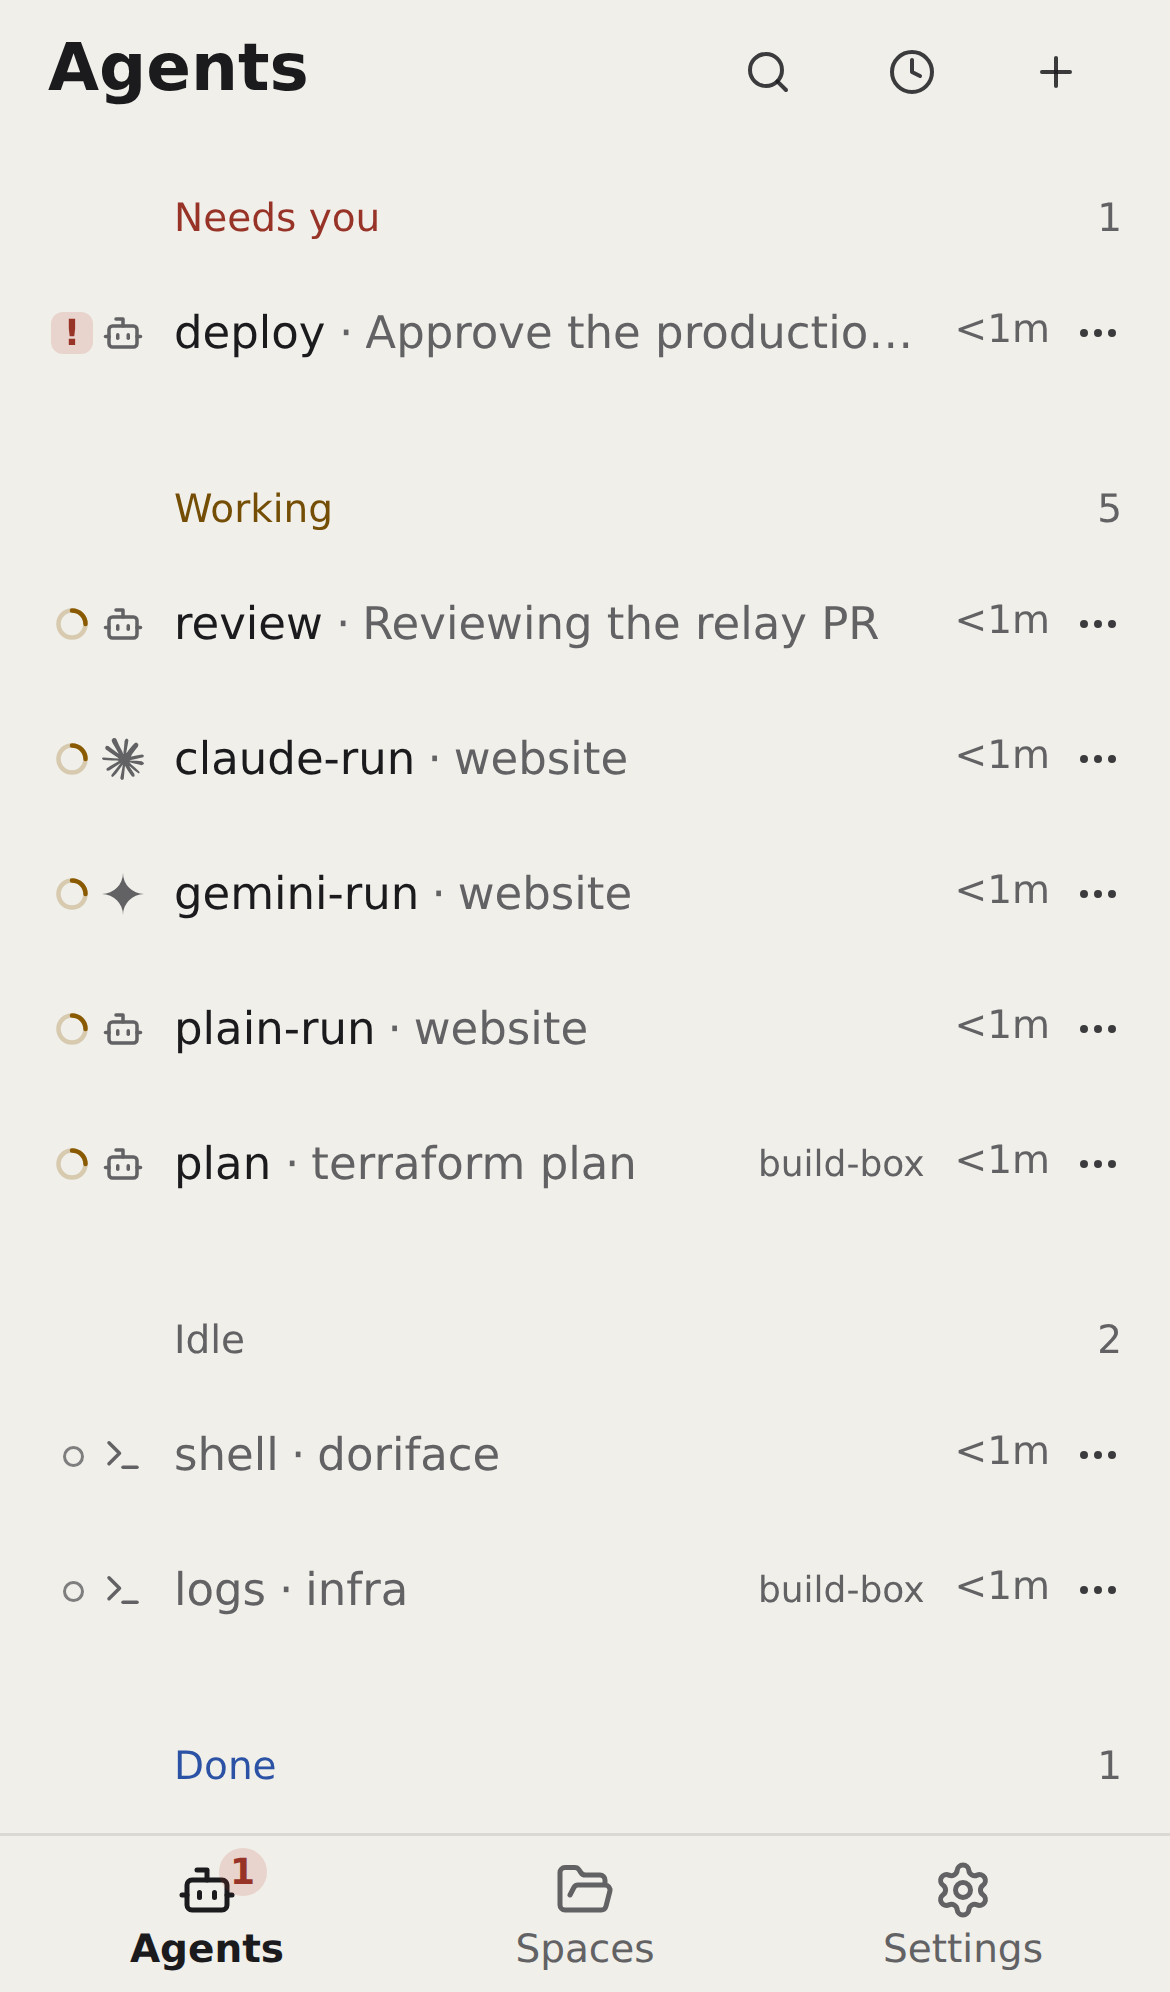
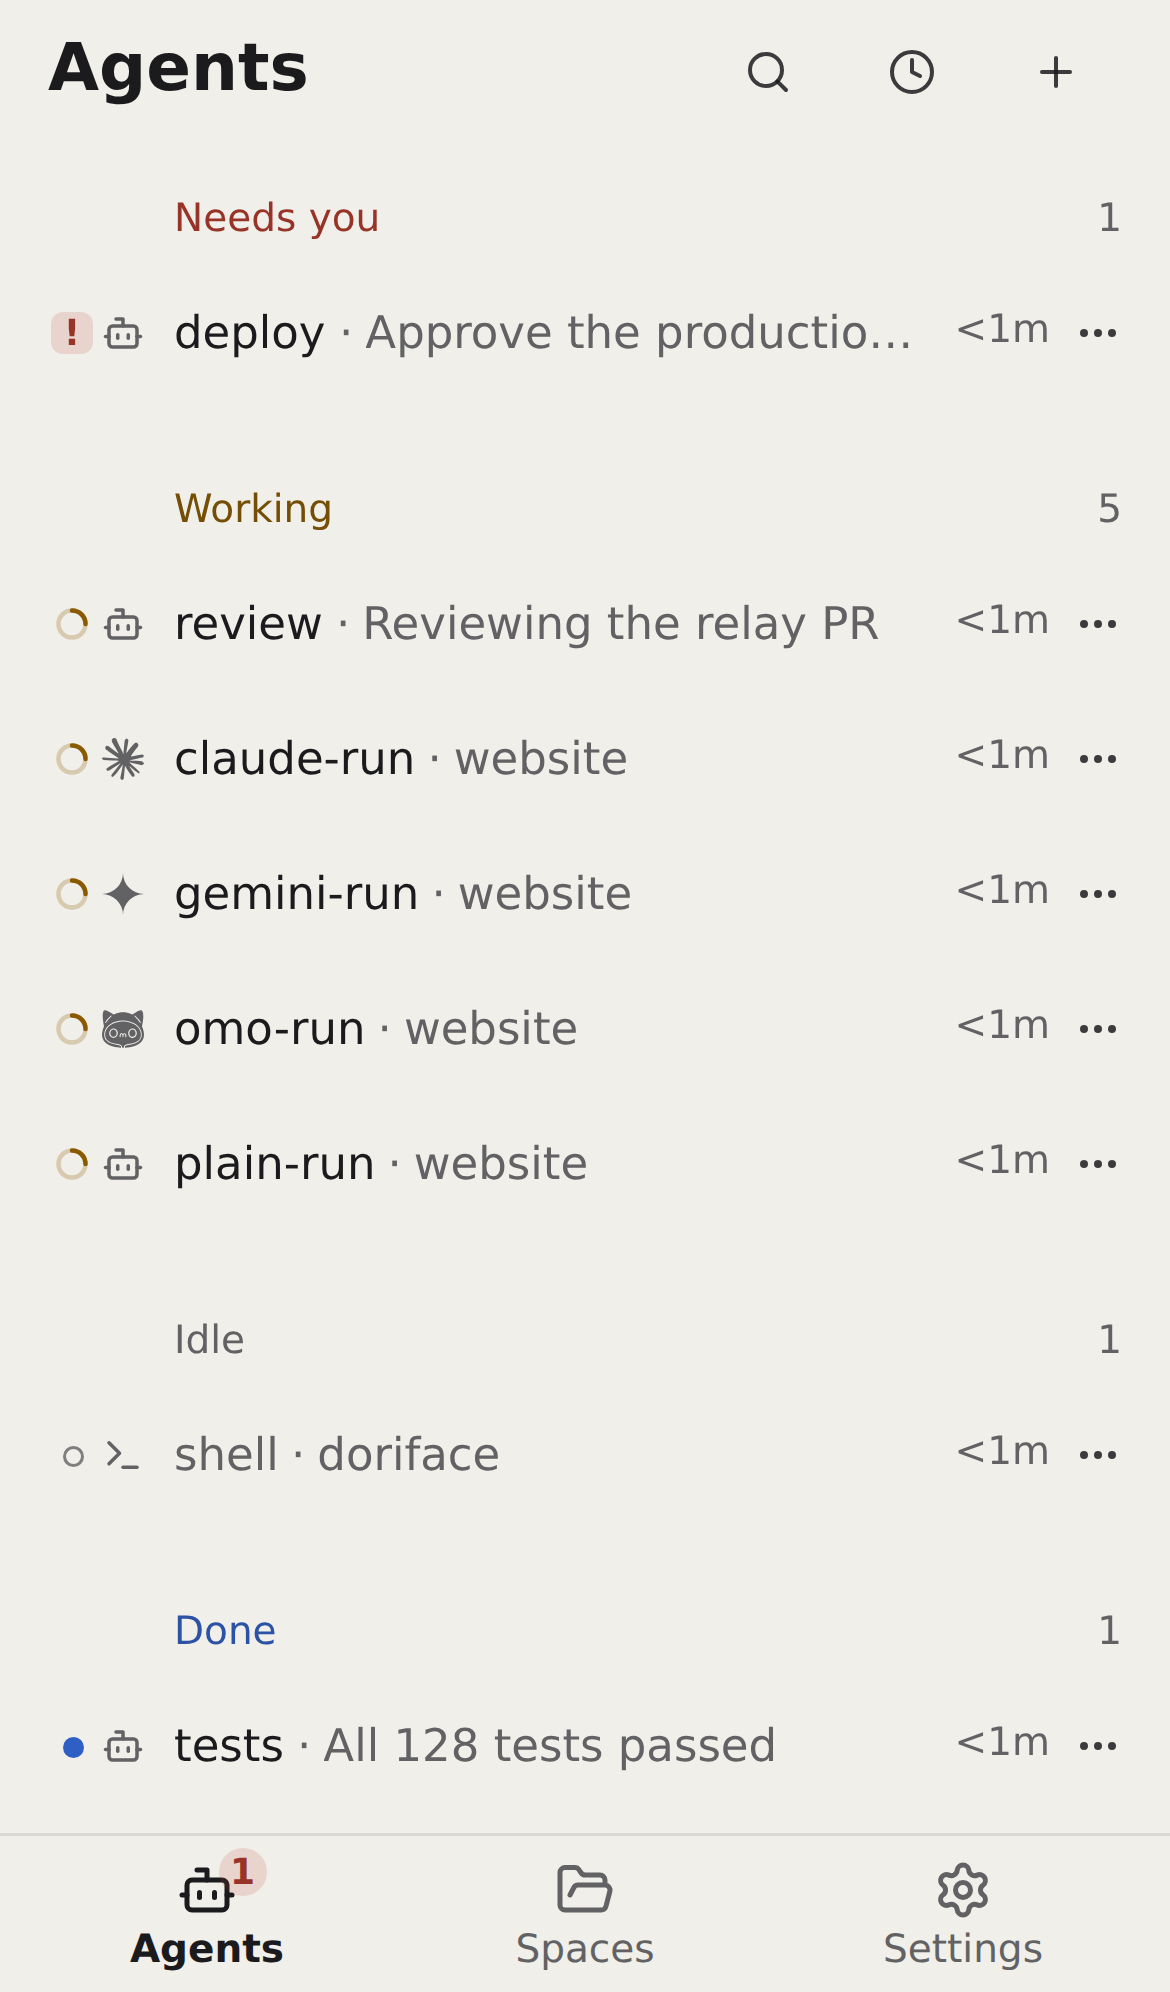
feat(ui): omo agents show omo's own cat mark (Part of #2746) (#2814)
* feat(ui): omo agents show omo's own cat mark instead of a stand-in (Part of #2746)

* docs(changes): fragment for #2814

diff --git a/packages/ui/src/components/agent-marks.ts b/packages/ui/src/components/agent-marks.ts
@@ -1,25 +1,20 @@
-import {
-  Bot,
-  CodeXml,
-  Cpu,
-  Feather,
-  Mountain,
-  Orbit,
-  Pi,
-  SquareTerminal,
-  Terminal,
-  Zap,
-  type LucideIcon,
-} from "lucide-react";
+import { Bot, CodeXml, Cpu, Feather, Orbit, Pi, SquareTerminal, Terminal, Zap, type LucideIcon } from "lucide-react";
 
-/** One single-colour mark for what a terminal runs, from Simple Icons (CC0-1.0) or Lucide (ISC). */
+/** One single-colour mark for what a terminal runs, from Simple Icons (CC0-1.0), Lucide (ISC), or our own mark. */
 export type AgentMarkEntry =
   | { readonly label: string; readonly from: "simple-icons"; readonly slug: string; readonly path: string }
-  | { readonly label: string; readonly from: "lucide"; readonly name: string; readonly icon: LucideIcon };
+  | { readonly label: string; readonly from: "lucide"; readonly name: string; readonly icon: LucideIcon }
+  | {
+      readonly label: string;
+      readonly from: "own";
+      readonly viewBox: string;
+      readonly transform: string;
+      readonly path: string;
+    };
 
 /**
- * The 17 single-colour marks: seven Simple Icons 16.38.1 paths verbatim (viewBox 0 0 24 24), seven neutral Lucide
- * stand-ins for agents without a permissive mark, and the three generic glyphs (agent, shell, program).
+ * The 17 single-colour marks: seven Simple Icons 16.38.1 paths verbatim (viewBox 0 0 24 24), six neutral Lucide
+ * stand-ins for agents without a permissive mark, omo's own mark, and the three generic glyphs (agent, shell, program).
  * See `packages/ui/NOTICES.md` for sources and licences.
  */
 export const AGENT_MARKS: Readonly<Record<string, AgentMarkEntry>> = {
@@ -63,7 +58,13 @@ export const AGENT_MARKS: Readonly<Record<string, AgentMarkEntry>> = {
     path: "M21.765.351C22.998.351 24 1.353 24 2.586S22.998 4.82 21.765 4.82h-1.974c-.15 0-.26-.12-.26-.26V2.586A2.237 2.237 0 0 1 21.765.35M9.41 13.388l8.447-8.377c.16-.16.07-.471-.14-.471h-4.55s-.1.02-.14.06l-9.099 9.029c-.14.14-.35.02-.35-.21V4.81c0-.15-.1-.27-.221-.27H.22c-.12 0-.22.12-.22.27v18.57c0 .15.1.27.22.27h3.137c.12 0 .22-.12.22-.27v-3.79c0-.08.03-.16.08-.21l2.826-2.796c.07-.07.16-.08.241-.03l7.546 5.551a8.9 8.9 0 0 0 4.018 1.493c.12.01.23-.11.23-.27V19.76c0-.14-.08-.25-.19-.26a5.8 5.8 0 0 1-2.355-.942l-6.533-4.73c-.14-.09-.15-.32-.03-.441",
   },
   antigravity: { label: "Antigravity", from: "lucide", name: "feather", icon: Feather },
-  omo: { label: "omo", from: "lucide", name: "mountain", icon: Mountain },
+  omo: {
+    label: "omo",
+    from: "own",
+    viewBox: "189.5 185 645 645",
+    transform: "scale(0.5) translate(0 2048) scale(0.05 -0.05)",
+    path: "M9270 32167 c-309 -64 -456 -152 -621 -373 -562 -748 -776 -2689\n-547 -4984 118 -1187 325 -2600 570 -3890 143 -753 152 -653 -128 -1380 -403\n-1045 -643 -1873 -812 -2800 -853 -4689 1979 -7986 7858 -9148 1140 -225 2514\n-397 3202 -400 l361 -2 79 55 c264 182 210 642 -111 942 -387 362 -950 532\n-2801 845 -3004 507 -4249 965 -5520 2030 -1358 1138 -2012 2878 -1809 4810\n545 5195 6617 8726 13529 7866 5506 -684 9480 -4255 9480 -8518 0 -2607 -1462\n-4522 -4157 -5448 -927 -318 -1534 -459 -3203 -740 -1851 -313 -2414 -483\n-2801 -845 -321 -300 -375 -760 -111 -942 l79 -55 361 2 c688 3 2062 175 3202\n400 5879 1162 8711 4459 7858 9148 -169 927 -409 1755 -812 2800 -280 727\n-271 627 -128 1380 245 1290 452 2703 570 3890 271 2720 -77 4861 -855 5259\n-758 388 -2310 -238 -5021 -2024 -868 -571 -764 -557 -1489 -211 -3271 1558\n-6755 1558 -10026 0 -725 -346 -621 -360 -1489 211 -2371 1562 -3959 2278\n-4708 2122z m4132 -3345 c175 -175 124 -268 -409 -739 -1028 -910 -1995 -2053\n-2713 -3209 -97 -156 -200 -318 -228 -359 -221 -321 -646 -76 -469 270 153\n301 883 1334 1388 1965 578 723 1466 1614 2029 2035 191 142 288 151 402 37z\nm14507 -1 c496 -341 1482 -1323 2080 -2071 505 -631 1235 -1664 1388 -1965\n177 -346 -248 -591 -469 -270 -28 41 -131 203 -228 359 -718 1156 -1685 2299\n-2713 3209 -535 473 -585 564 -407 742 100 100 199 99 349 -4z M19910 25308 c-4039 -205 -7212 -1666 -9086 -4184 -1840 -2473 -1753\n-5794 196 -7540 1161 -1040 2447 -1518 5420 -2015 1374 -229 1998 -380 2456\n-591 754 -348 1163 -1000 1033 -1650 -10 -49 -1 -72 47 -124 l60 -64 444 0\n444 0 60 64 c48 52 57 75 47 124 -130 650 279 1302 1033 1650 458 211 1082\n362 2456 591 2973 497 4259 975 5420 2015 2084 1866 2026 5374 -131 7956\n-2063 2469 -5995 3966 -9899 3768z m-4644 -4374 c1356 -360 2272 -1909 1998\n-3378 -426 -2278 -2856 -3144 -4424 -1576 -1497 1496 -924 4218 1031 4899 393\n137 996 161 1395 55z m11480 35 c1491 -261 2504 -1921 2154 -3532 -487 -2247\n-3108 -3024 -4525 -1341 -1719 2042 -129 5310 2371 4873z m-6948 -2980 c172\n-40 341 -133 495 -273 95 -86 143 -116 187 -116 44 0 92 30 187 116 718 650\n1716 188 1854 -860 35 -267 18 -968 -25 -1048 -119 -219 -350 -251 -491 -68\n-68 89 -73 124 -85 670 -13 623 -25 675 -200 838 -212 198 -516 199 -735 2\n-180 -161 -192 -212 -205 -840 -12 -546 -17 -581 -85 -670 -122 -159 -308\n-159 -430 0 -68 89 -73 124 -85 670 -13 628 -25 679 -205 840 -219 197 -523\n196 -735 -2 -175 -163 -187 -215 -200 -838 -12 -546 -17 -581 -85 -670 -141\n-183 -372 -151 -491 68 -74 136 -54 1039 30 1332 170 594 758 978 1304 849z M14340 20290 c-1858 -372 -2230 -3228 -546 -4191 1280 -732 2786 338\n2786 1981 0 1391 -1068 2445 -2240 2210z M25990 20291 c-1733 -343 -2208 -2981 -732 -4069 1287 -949 2981 108\n2982 1860 0 1392 -1070 2443 -2250 2209z",
+  },
   omp: { label: "omp", from: "lucide", name: "pi", icon: Pi },
   droid: { label: "Droid", from: "lucide", name: "cpu", icon: Cpu },
   qwen: {

diff --git a/packages/ui/src/components/agent-mark.tsx b/packages/ui/src/components/agent-mark.tsx
@@ -17,21 +17,42 @@ export function AgentMark({ kind, size = 16, className, decorative = false }: Ag
   if (entry === undefined) return null;
   const classes = cn("shrink-0", className);
   const named = decorative ? ({ "aria-hidden": true } as const) : ({ role: "img", "aria-label": entry.label } as const);
-  if (entry.from === "simple-icons") {
-    return (
-      <svg
-        {...named}
-        viewBox="0 0 24 24"
-        width={size}
-        height={size}
-        fill="currentColor"
-        data-agent-mark={kind}
-        className={classes}
-      >
-        <path d={entry.path} />
-      </svg>
-    );
+  switch (entry.from) {
+    case "simple-icons":
+      return (
+        <svg
+          {...named}
+          viewBox="0 0 24 24"
+          width={size}
+          height={size}
+          fill="currentColor"
+          data-agent-mark={kind}
+          className={classes}
+        >
+          <path d={entry.path} />
+        </svg>
+      );
+    case "own":
+      return (
+        <svg
+          {...named}
+          viewBox={entry.viewBox}
+          width={size}
+          height={size}
+          fill="currentColor"
+          data-agent-mark={kind}
+          className={classes}
+        >
+          <path d={entry.path} fillRule="evenodd" transform={entry.transform} />
+        </svg>
+      );
+    case "lucide": {
+      const Icon = entry.icon;
+      return <Icon {...named} data-agent-mark={kind} width={size} height={size} className={classes} />;
+    }
+    default: {
+      const exhaustive: never = entry;
+      return exhaustive;
+    }
   }
-  const Icon = entry.icon;
-  return <Icon {...named} data-agent-mark={kind} width={size} height={size} className={classes} />;
 }

diff --git a/apps/web/e2e/capture-shots.ts b/apps/web/e2e/capture-shots.ts
@@ -407,19 +407,22 @@ export const SHOTS: readonly Shot[] = [
     },
   },
   {
-    // Per-agent marks in the sidebar and phone Agents list: Claude, Gemini and a plain agent (#2746).
+    // Per-agent marks in the sidebar and phone Agents list: Claude, Gemini, omo and a plain agent (#2746).
     name: "agent-icons",
     start: "connected",
     run: async (page) => {
       const claude = startAppAgent("claude-run", "working", "claude");
       const gemini = startAppAgent("gemini-run", "working", "gemini");
+      const omo = startAppAgent("omo-run", "working", "omo");
       const plain = startAgent("host", "plain-run", "working", "website");
-      iconShot = [claude, gemini, plain];
+      iconShot = [claude, gemini, omo, plain];
       await page.goto("/");
       const working = page.getByRole("region", { name: "Working", exact: true });
       await expect(working.locator('[data-floor="name"][title="claude-run"]')).toBeVisible({ timeout: 20_000 });
       await expect(working.locator('[data-floor="name"][title="gemini-run"]')).toBeVisible({ timeout: 20_000 });
+      await expect(working.locator('[data-floor="name"][title="omo-run"]')).toBeVisible({ timeout: 20_000 });
       await expect(working.locator('[data-floor="name"][title="plain-run"]')).toBeVisible({ timeout: 20_000 });
+      await expect(working.getByRole("img", { name: "omo" })).toBeVisible();
       await expect(working.getByRole("img", { name: "Claude" })).toBeVisible();
       await expect(working.getByRole("img", { name: "Gemini" })).toBeVisible();
       await expect(working.getByRole("img", { name: "Agent" }).first()).toBeVisible();

diff --git a/packages/ui/src/components/agent-marks.test.tsx b/packages/ui/src/components/agent-marks.test.tsx
@@ -60,6 +60,17 @@ describe("AGENT_MARKS", () => {
     expect(renderToStaticMarkup(<AgentMark kind="toString" />)).toBe("");
   });
 
+  test("omo draws its own cat mark: the glyph path alone, framed tight, single colour, holes kept by evenodd", () => {
+    const entry = AGENT_MARKS["omo"];
+    expect(entry?.from).toBe("own");
+    const markup = renderToStaticMarkup(<AgentMark kind="omo" />);
+    expect(readAttr(markup, "viewBox")).toBe("189.5 185 645 645");
+    expect(readAttr(markup, "fill")).toBe("currentColor");
+    expect(readAttr(markup, "fill-rule")).toBe("evenodd");
+    expect(readAttr(markup, "d")).toMatch(/^M9270 32167 c-309 -64/u);
+    expect(markup).not.toMatch(/#[0-9a-fA-F]{3,8}\b/u);
+  });
+
   test("packages/ui/NOTICES.md lists every mark in AGENT_MARKS and no extra key", () => {
     const listed = noticedKinds(NOTICES);
     const expected = Object.keys(AGENT_MARKS);

diff --git a/packages/ui/NOTICES.md b/packages/ui/NOTICES.md
@@ -1,28 +1,28 @@
 # Agent mark notices
 
-`@doriface/ui` draws a single-colour mark for what each terminal runs (`src/components/agent-marks.ts`). Every drawing comes from Simple Icons 16.38.1 or Lucide (`lucide-react`).
+`@doriface/ui` draws a single-colour mark for what each terminal runs (`src/components/agent-marks.ts`). Every drawing comes from Simple Icons 16.38.1, Lucide (`lucide-react`), or our own omo mark.
 
-| kind        | source                                        | upstream name                  | licence       |
-| ----------- | --------------------------------------------- | ------------------------------ | ------------- |
-| claude      | Simple Icons 16.38.1                          | `claude`                       | CC0-1.0       |
-| codex       | Lucide                                        | `code-xml`                     | ISC           |
-| cursor      | Simple Icons 16.38.1                          | `cursor`                       | CC0-1.0       |
-| copilot     | Simple Icons 16.38.1 (GitHub Primer Octicons) | `githubcopilot` (`copilot-24`) | CC0-1.0 / MIT |
-| gemini      | Simple Icons 16.38.1                          | `googlegemini`                 | CC0-1.0       |
-| grok        | Lucide                                        | `orbit`                        | ISC           |
-| opencode    | Simple Icons 16.38.1                          | `opencode`                     | CC0-1.0       |
-| amp         | Lucide                                        | `zap`                          | ISC           |
-| kimi        | Simple Icons 16.38.1                          | `kimi`                         | CC0-1.0       |
-| antigravity | Lucide (Feather)                              | `feather`                      | ISC / MIT     |
-| omo         | Lucide                                        | `mountain`                     | ISC           |
-| omp         | Lucide                                        | `pi`                           | ISC           |
-| droid       | Lucide                                        | `cpu`                          | ISC           |
-| qwen        | Simple Icons 16.38.1                          | `qwen`                         | CC0-1.0       |
-| agent       | Lucide                                        | `bot`                          | ISC           |
-| shell       | Lucide (Feather)                              | `terminal`                     | ISC / MIT     |
-| program     | Lucide                                        | `square-terminal`              | ISC           |
+| kind        | source                                        | upstream name                                         | licence       |
+| ----------- | --------------------------------------------- | ----------------------------------------------------- | ------------- |
+| claude      | Simple Icons 16.38.1                          | `claude`                                              | CC0-1.0       |
+| codex       | Lucide                                        | `code-xml`                                            | ISC           |
+| cursor      | Simple Icons 16.38.1                          | `cursor`                                              | CC0-1.0       |
+| copilot     | Simple Icons 16.38.1 (GitHub Primer Octicons) | `githubcopilot` (`copilot-24`)                        | CC0-1.0 / MIT |
+| gemini      | Simple Icons 16.38.1                          | `googlegemini`                                        | CC0-1.0       |
+| grok        | Lucide                                        | `orbit`                                               | ISC           |
+| opencode    | Simple Icons 16.38.1                          | `opencode`                                            | CC0-1.0       |
+| amp         | Lucide                                        | `zap`                                                 | ISC           |
+| kimi        | Simple Icons 16.38.1                          | `kimi`                                                | CC0-1.0       |
+| antigravity | Lucide (Feather)                              | `feather`                                             | ISC / MIT     |
+| omo         | omo (Sisyphus Labs), our own mark             | `packages/web/public/brand/omo-mark.svg` (glyph path) | own           |
+| omp         | Lucide                                        | `pi`                                                  | ISC           |
+| droid       | Lucide                                        | `cpu`                                                 | ISC           |
+| qwen        | Simple Icons 16.38.1                          | `qwen`                                                | CC0-1.0       |
+| agent       | Lucide                                        | `bot`                                                 | ISC           |
+| shell       | Lucide (Feather)                              | `terminal`                                            | ISC / MIT     |
+| program     | Lucide                                        | `square-terminal`                                     | ISC           |
 
-The Lucide glyphs for `codex`, `grok`, `amp`, `antigravity`, `omo`, `omp` and `droid` are neutral stand-ins and not those projects' logos.
+The Lucide glyphs for `codex`, `grok`, `amp`, `antigravity`, `omp` and `droid` are neutral stand-ins and not those projects' logos.
 
 These licences cover the drawings only. Product names and logos are trademarks of their owners; no trademark rights are granted, and their use here only identifies the program a terminal runs.
 
@@ -67,3 +67,9 @@ Permission is hereby granted, free of charge, to any person obtaining a copy of 
 The above copyright notice and this permission notice shall be included in all copies or substantial portions of the Software.
 
 THE SOFTWARE IS PROVIDED "AS IS", WITHOUT WARRANTY OF ANY KIND, EXPRESS OR IMPLIED, INCLUDING BUT NOT LIMITED TO THE WARRANTIES OF MERCHANTABILITY, FITNESS FOR A PARTICULAR PURPOSE AND NONINFRINGEMENT. IN NO EVENT SHALL THE AUTHORS OR COPYRIGHT HOLDERS BE LIABLE FOR ANY CLAIM, DAMAGES OR OTHER LIABILITY, WHETHER IN AN ACTION OF CONTRACT, TORT OR OTHERWISE, ARISING FROM, OUT OF OR IN CONNECTION WITH THE SOFTWARE OR THE USE OR OTHER DEALINGS IN THE SOFTWARE.
+
+## omo
+
+Source: `github.com/code-yeongyu/oh-my-openagent`, `packages/web/public/brand/omo-mark.svg` at commit `c9b324948d` (our own product's mark, Sisyphus Labs).
+
+Only the glyph path is embedded; the rounded-square background is dropped and the mark is drawn in `currentColor`.

diff --git a/changes/unreleased/2814.md b/changes/unreleased/2814.md
@@ -1,0 +1,3 @@
+### Workspace
+
+- omo agents now show omo's own cat mark instead of a placeholder, in the agents list, tabs and on the phone. (#2814)
